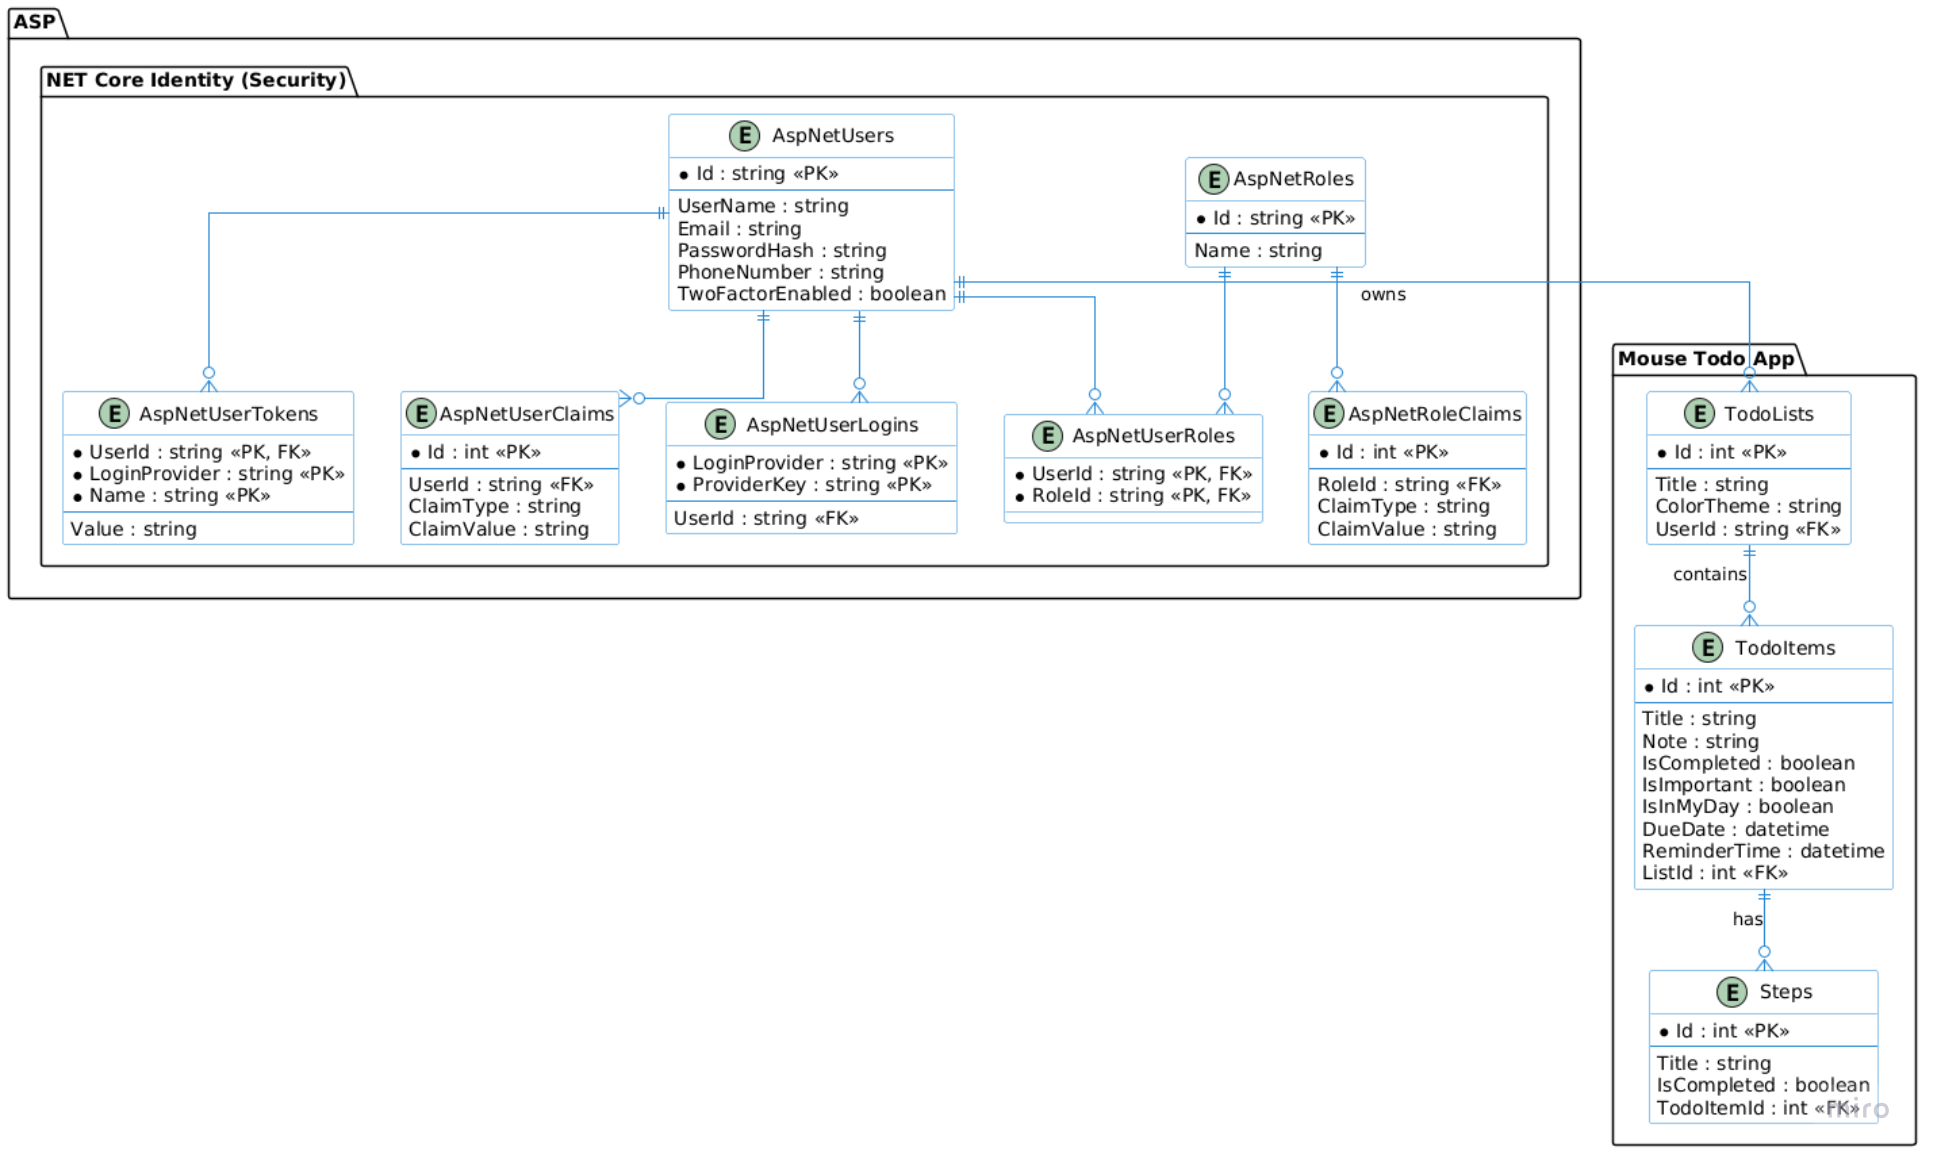
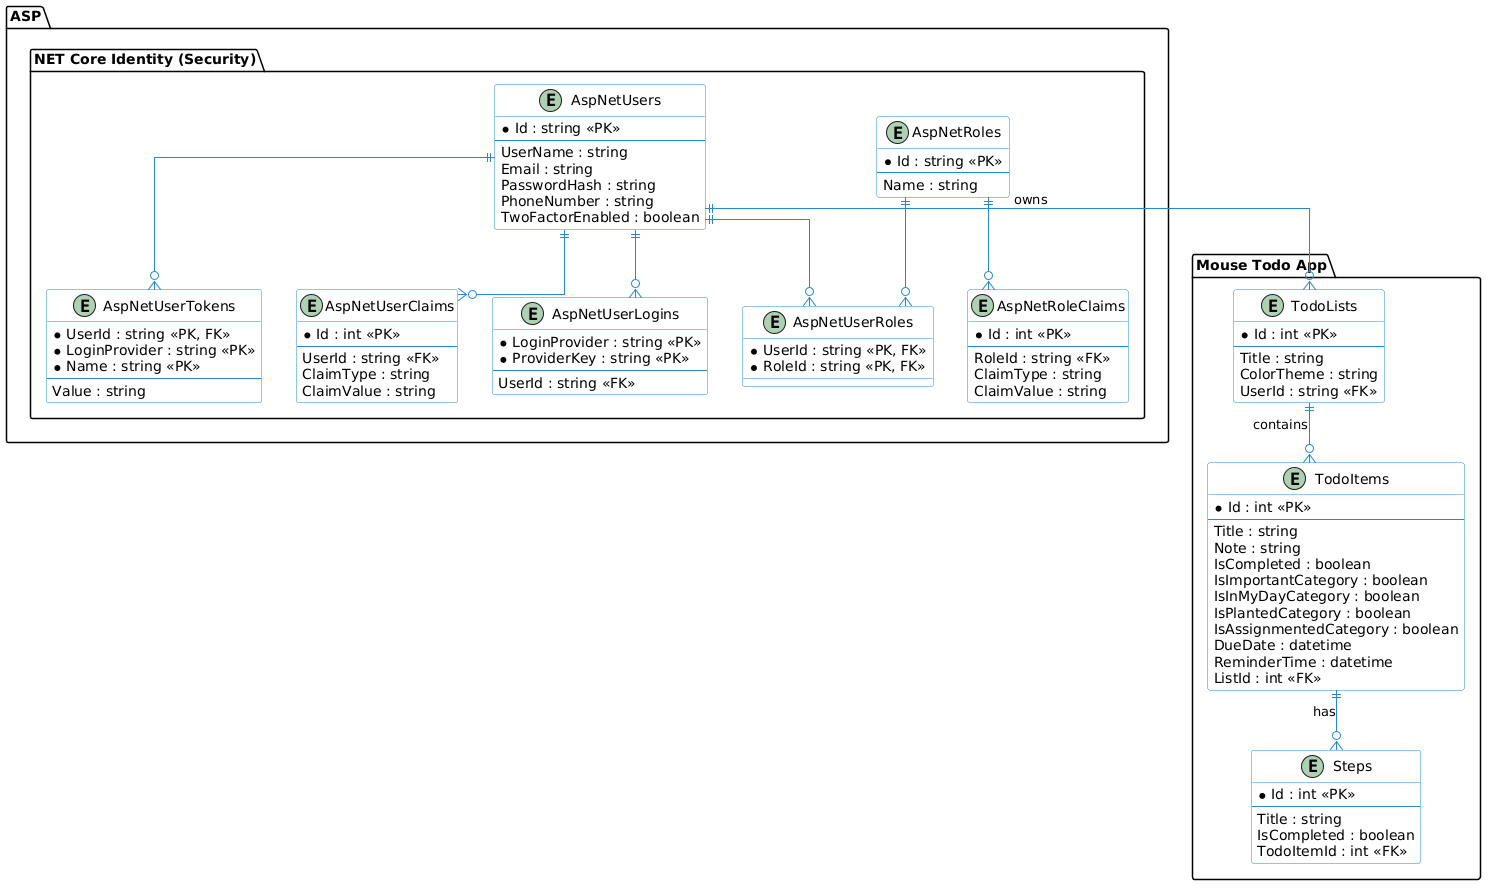
feat: enhance domain model, add constructor and update config
- Add .editorconfig with C# style and naming rules
- Refactor use case files for consistent usings
- Extend TodoItem with new properties, validation, and steps
- Add Step and TodoList domain entities with encapsulation
- Introduce domain exceptions for validation errors
- Add DateTime and String extension methods for validation
- Adjust API response formatting in Program.cs
- Update solution to include .editorconfig
- Update CDM.png binary file

Changed region(s): [[0.0, 0.0, 1.0, 0.9978]]

diff --git a/Backend/MouseTodoApp.Domain/Entities/TodoItem.cs b/Backend/MouseTodoApp.Domain/Entities/TodoItem.cs
@@ -1,4 +1,5 @@
-using System;
+using MouseTodoApp.Domain.Extensions;
+using System;
 using System.Collections.Generic;
 using System.Text;
 
@@ -6,8 +7,77 @@ namespace MouseTodoApp.Domain.Entities
 {
     public class TodoItem
     {
-        public Guid Id { get; set; } = Guid.NewGuid();
-        public string Title { get; set; } = string.Empty;
-        public bool IsCompleted { get; set; } = false;
+        private readonly List<Step> _steps = [];
+
+        public Guid Id { get; private set; }
+        public string Title { get; private set; } = string.Empty;
+        public string? Note { get; private set; } = string.Empty;
+        public bool IsCompleted { get; private set; } = false;
+        public bool IsImportantCategory { get; private set; }
+        public bool IsInMyDayCategory { get; private set; }
+        public bool IsPlantedCategory { get; private set; }
+        public bool IsAssignmentedCategory { get; private set; }
+        public DateTime? DueDate { get; private set; }
+        public DateTime? ReminderTime { get; private set; }
+        public string TodoListId { get; private set; } = string.Empty;
+
+        public IReadOnlyCollection<Step> Steps => _steps.AsReadOnly();
+
+        private TodoItem() { }
+
+        public TodoItem(
+            string title,
+            string? note,
+            bool isImportantCategory,
+            bool isInMyDayCategory,
+            bool isPlantedCategory,
+            bool isAssignmentedCategory,
+            DateTime? dueDate,
+            DateTime? reminderTime,
+            string todoListId
+        )
+        {
+            Title = title.ThrowIfNullOrEmpty(nameof(title));
+            TodoListId = todoListId.ThrowIfNullOrEmpty(nameof(todoListId));
+
+            if (dueDate.HasValue)
+            {
+                DueDate = dueDate.Value.ThrowIfPastDate(nameof(dueDate));
+            }
+            else
+            {
+                DueDate = dueDate;
+            }
+
+            if (reminderTime.HasValue)
+            {
+                if (dueDate.HasValue)
+                {
+                    ReminderTime = reminderTime.Value.ThrowIfAfterTheTimeline(dueDate.Value, nameof(reminderTime));
+                }
+                else
+                {
+                    ReminderTime = reminderTime;
+                }
+            }
+            else
+            {
+                ReminderTime = reminderTime;
+            }
+
+            Note = note;
+            IsCompleted = false;
+            IsImportantCategory = isImportantCategory;
+            IsInMyDayCategory = isInMyDayCategory;
+            IsPlantedCategory = isPlantedCategory;
+            IsAssignmentedCategory = isAssignmentedCategory;
+
+            Id = Guid.NewGuid();
+        }
+
+        public void AddStep(Step step)
+        {
+            _steps.Add(step);
+        }
     }
 }

diff --git a/Backend/MouseTodoApp.Domain/Entities/TodoList.cs b/Backend/MouseTodoApp.Domain/Entities/TodoList.cs
@@ -1,0 +1,33 @@
+using MouseTodoApp.Domain.Extensions;
+using System;
+using System.Collections.Generic;
+using System.Text;
+
+namespace MouseTodoApp.Domain.Entities
+{
+    public class TodoList
+    {
+        public Guid Id { get; private set; }
+        public string Title { get; private set; } = string.Empty;
+        public string ColorTheme { get; private set; } = string.Empty;
+        public string UserId { get; private set; } = string.Empty;
+
+        private readonly List<TodoItem> _todoItems = [];
+        public IReadOnlyCollection<TodoItem> TodoItems => _todoItems.AsReadOnly();
+        private TodoList() { }
+
+        public TodoList(string title, string colorTheme, string userId)
+        {
+            Title = title.ThrowIfNullOrEmpty(nameof(title));
+            ColorTheme = colorTheme.ThrowIfNullOrEmpty(nameof(colorTheme));
+            UserId = userId.ThrowIfNullOrEmpty(nameof(userId));
+
+            Id = Guid.NewGuid();
+        }
+
+        public void AddTodoItem(TodoItem item)
+        {
+            _todoItems.Add(item);
+        }
+    }
+}

diff --git a/Backend/MouseTodoApp.Domain/Extensions/DateTimeExtension.cs b/Backend/MouseTodoApp.Domain/Extensions/DateTimeExtension.cs
@@ -1,0 +1,28 @@
+using MouseTodoApp.Domain.Exceptions;
+using System;
+using System.Collections.Generic;
+using System.Text;
+
+namespace MouseTodoApp.Domain.Extensions
+{
+    internal static class DateTimeExtension
+    {
+        public static DateTime ThrowIfPastDate(this DateTime value, string paramName)
+        {
+            if (value < DateTime.Now)
+            {
+                throw new InvalidDateTime(paramName);
+            }
+            return value;
+        }
+
+        public static DateTime ThrowIfAfterTheTimeline(this DateTime value, DateTime timeLine, string paramName)
+        {
+            if (value < timeLine)
+            {
+                throw new InvalidDateTime(paramName);
+            }
+            return value;
+        }
+    }
+}

diff --git a/Backend/MouseTodoApp.Domain/Entities/Step.cs b/Backend/MouseTodoApp.Domain/Entities/Step.cs
@@ -1,0 +1,22 @@
+using MouseTodoApp.Domain.Extensions;
+using System;
+using System.Collections.Generic;
+using System.Text;
+
+namespace MouseTodoApp.Domain.Entities
+{
+    public class Step
+    {
+        public Guid Id { get; private set; }
+        public string Title { get; private set; } = string.Empty;
+        public bool IsCompleted { get; private set; } = false;
+        public string TodoItemId { get; private set; } = string.Empty;
+
+        private Step() { }
+        public Step(string title, string todoItemId)
+        {
+            Title = title.ThrowIfNullOrEmpty(nameof(title));
+            TodoItemId = todoItemId.ThrowIfNullOrEmpty(nameof(todoItemId));
+        }
+    }
+}

diff --git a/Backend/MouseTodoApp.Domain/Extensions/StringExtension.cs b/Backend/MouseTodoApp.Domain/Extensions/StringExtension.cs
@@ -1,0 +1,19 @@
+using MouseTodoApp.Domain.Exceptions;
+using System;
+using System.Collections.Generic;
+using System.Text;
+
+namespace MouseTodoApp.Domain.Extensions
+{
+    internal static class StringExtension
+    {
+        public static string ThrowIfNullOrEmpty(this string value, string paramName)
+        {
+            if (string.IsNullOrWhiteSpace(value))
+            {
+                throw new InvalidValueException(paramName);
+            }
+            return value.Trim();
+        }
+    }
+}

diff --git a/Backend/MouseTodoApp.Domain/Exceptions/InvalidDateTime.cs b/Backend/MouseTodoApp.Domain/Exceptions/InvalidDateTime.cs
@@ -1,0 +1,10 @@
+using System;
+using System.Collections.Generic;
+using System.Text;
+
+namespace MouseTodoApp.Domain.Exceptions
+{
+    internal class InvalidDateTime(string fieldName) : DomainException($"Thời gian '{fieldName}' đã ở quá khứ hoặc sau một mốc thời gian đã cài đặt.")
+    {
+    }
+}

diff --git a/Backend/MouseTodoApp.Domain/Exceptions/InvalidValueException.cs b/Backend/MouseTodoApp.Domain/Exceptions/InvalidValueException.cs
@@ -1,0 +1,10 @@
+using System;
+using System.Collections.Generic;
+using System.Text;
+
+namespace MouseTodoApp.Domain.Exceptions
+{
+    internal class InvalidValueException(string fieldName) : DomainException($"Tiêu đề '{fieldName}' không hợp lệ hoặc không được để trống.")
+    {
+    }
+}

diff --git a/Backend/MouseTodoApp.Domain/Exceptions/DomainException.cs b/Backend/MouseTodoApp.Domain/Exceptions/DomainException.cs
@@ -1,0 +1,14 @@
+using System;
+using System.Collections.Generic;
+using System.Text;
+
+namespace MouseTodoApp.Domain.Exceptions
+{
+    internal abstract class DomainException : Exception
+    {
+        protected DomainException(string message) : base(message)
+        {
+
+        }
+    }
+}

diff --git a/Backend/MouseTodoApp.WebAPI/Program.cs b/Backend/MouseTodoApp.WebAPI/Program.cs
@@ -22,7 +22,10 @@ app.UseCors();
 app.MapPost("/api/todos", (string title, ICreateTodoUseCase useCase) =>
 {
     var result = useCase.Execute(title);
-    return Results.Ok(new { message = result });
+    return Results.Ok(new
+    {
+        message = result
+    });
 });
 
 app.Run();

diff --git a/Backend/MouseTodoApp.Application/UseCases/CreateTodoUseCase.cs b/Backend/MouseTodoApp.Application/UseCases/CreateTodoUseCase.cs
@@ -1,4 +1,4 @@
-using MouseTodoApp.Application.Ports.Input;
+using MouseTodoApp.Application.Ports.Input;
 using MouseTodoApp.Domain.Entities;
 using System;
 using System.Collections.Generic;

diff --git a/Backend/MouseTodoApp.Application/Ports/Input/ICreateTodoUseCase.cs b/Backend/MouseTodoApp.Application/Ports/Input/ICreateTodoUseCase.cs
@@ -1,4 +1,4 @@
-using System;
+using System;
 using System.Collections.Generic;
 using System.Text;
 
